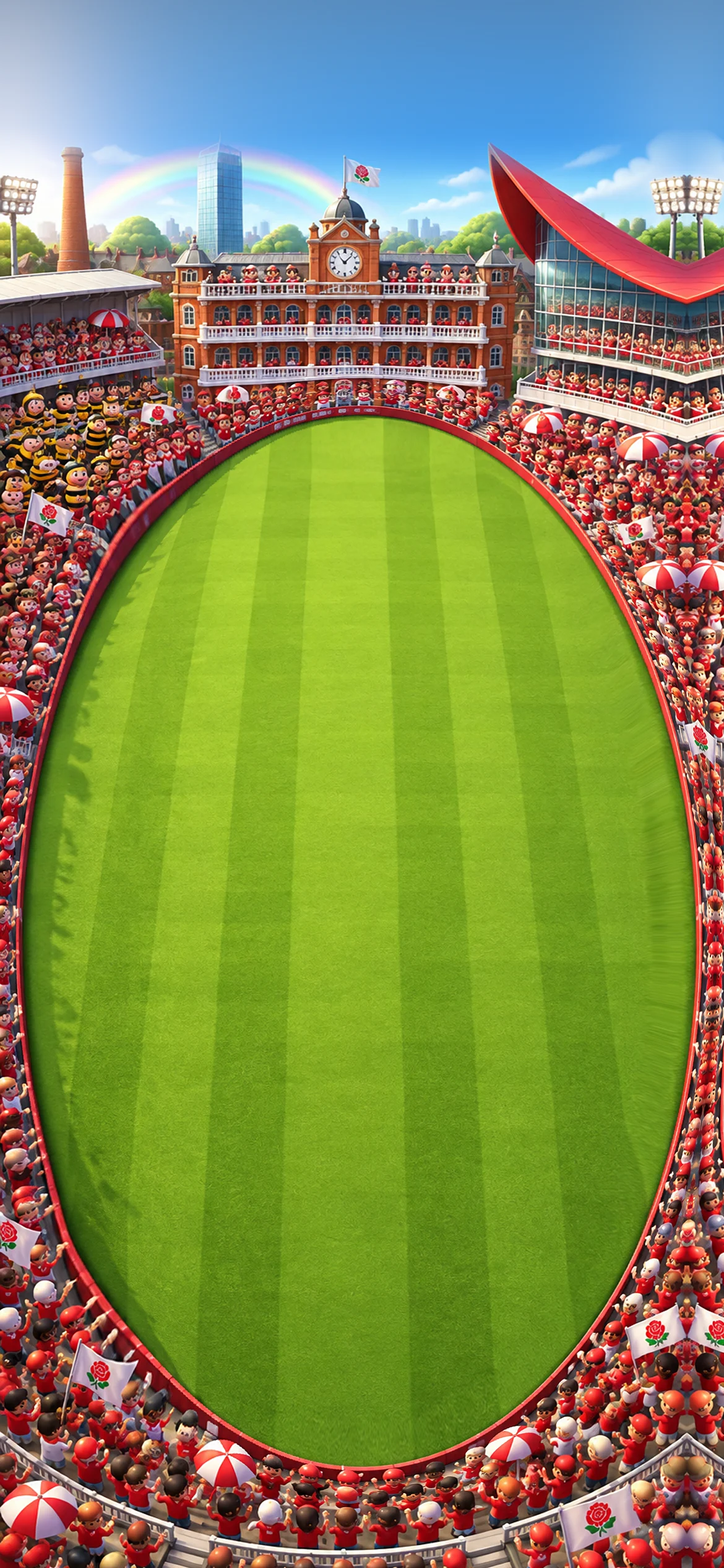
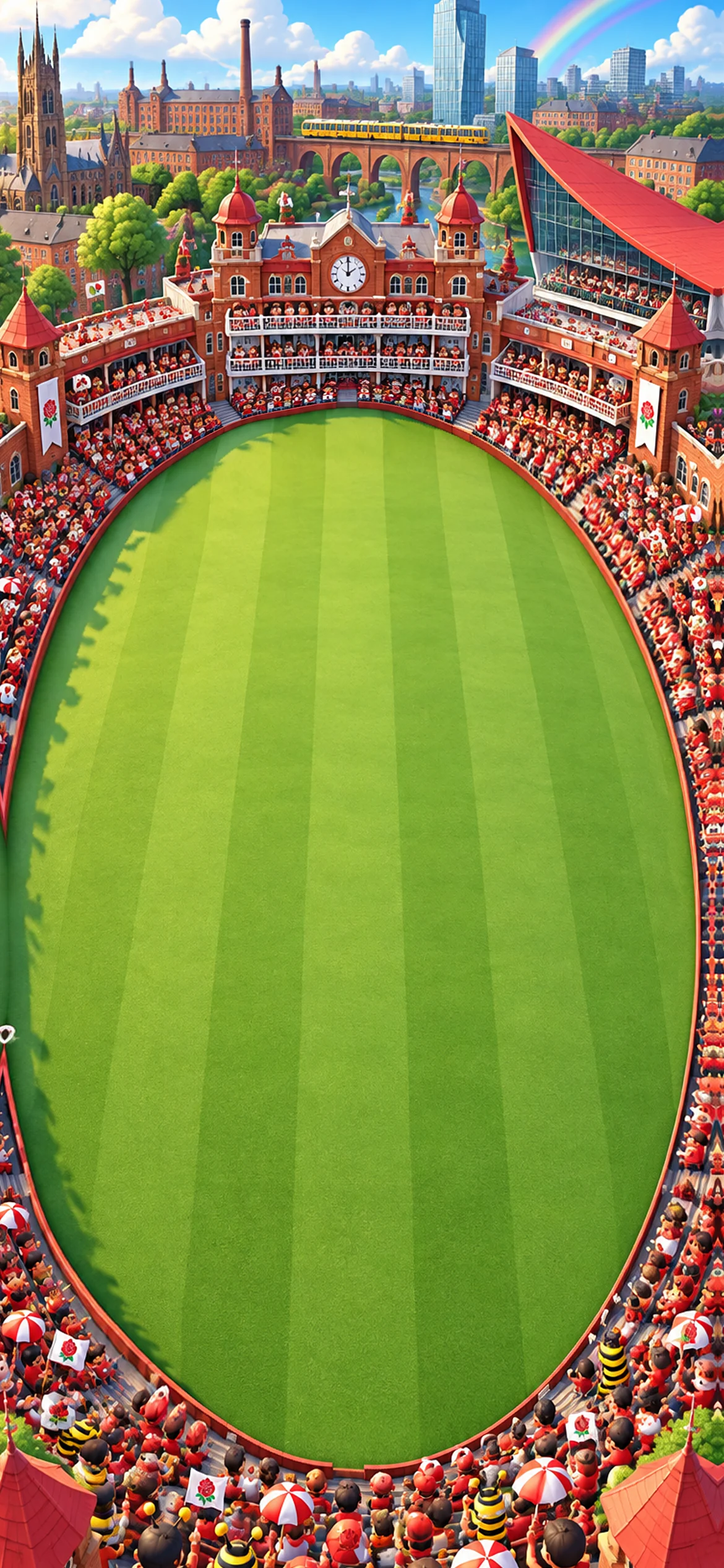
Old Trafford: wizard-style Camera 3 bowl plate
Claude-Session: https://claude.ai/code/session_01EnXvJ6P6HcGRxjBSnYPdAU

diff --git a/art/grounds/oldtrafford/build_clean.py b/art/grounds/oldtrafford/build_clean.py
@@ -5,7 +5,7 @@
 import numpy as np, cv2
 from measure import measure
 W,H=1170,2532; cx,cy,rx,ry=.5*W,.6*H,.46*W,.335*H
-img=cv2.imread('raw/plate_421-191.png').astype(np.float32); ex,ey,ew,eh=np.load('ell.npy')
+img=cv2.imread('raw/plate_422-191.png').astype(np.float32); ex,ey,ew,eh=np.load('ell.npy')
 def make(sx,sy,dx=0,dy=0):
   up=cv2.resize(img,(round(img.shape[1]*sx),round(img.shape[0]*sy)),interpolation=cv2.INTER_CUBIC)
   ox=int(round(ex*sx-cx+dx)); oy=int(round(ey*sy-cy+dy))

diff --git a/art/grounds/ART_PACKAGE.md b/art/grounds/ART_PACKAGE.md
@@ -71,3 +71,4 @@ Plate Figma 418:195 (full PROMPTS.md template, Camera 4 FAR, light top-left; 418
 Board 418:192 (green key): red enamel + chrome frame, roses, worker bee, charcoal chrome-rimmed bands — composed onto the template by art/ui/hud_lock/compose_oldtrafford.py (also writes the red-rose pause). Props 418:193 (magenta) / words 418:194 (green) cut by art/grounds/oldtrafford/cut.py; fan sprite skipped (crest on shirt). Pitch ct 81 cb 728 wb 399. Extras: bees, rose flag. Scene th_oldtrafford.
 Nov 2 v2 (Joe: 'the Point red box is terrible'): cartoon Point building generated alone (Figma 419:191, green key: red wedge roof to a sharp point, curved glass, balcony) and laid over the old block by art/grounds/oldtrafford/point.py (old block cleared by continuing the viaduct/houses from 200 px left). Plate was 1160 wide out of build_clean — padded to 1170. v1 kept as plate_v1.png.
 Nov 2 v3 (Joe: Camera 2 in the agreed spec style): full PROMPTS.md template with the Camera 2 MEDIUM-CLOSE line → Figma 421:191 (420:191 rejected: field painted edge to edge, giant near-end crowd). Ratio 1.82 → build_clean squash .91, right 60 px padded by reflection → snap_ring max 69 → measure max 1.4. v2 (Camera 4 + new Point) kept as plate_v2.png.
+Nov 2 v4 (Joe: 'what happened to the closer camera / same view as the wizard scene'): Wizard is Camera 3 MEDIUM in the spec. Full template with the Camera 3 line + a STADIUM SHAPE line (one continuous curved bowl hugging the oval, tiered rows in 3/4, red-brick corner towers, pavilion + Point rising at the far end, Manchester band beyond) → Figma 422:191 → build_clean → snap_ring → measure max 9.0 p90 3.0 (painted field nearly full width, so side stands are thin, as on Wizard).
